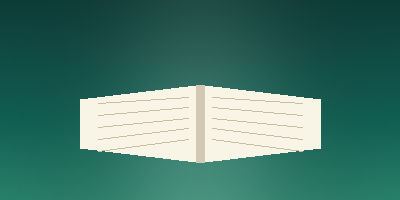
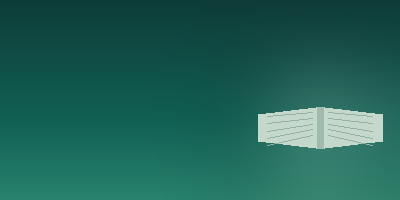
The widget redraws when its alarm fires, and notifications vibrate
The alarm module woke the widget's background task on time, but that task
only drew when Android itself had handed it a widget to draw on. Woken by
an alarm it rebuilt the card, re-armed the alarms and drew nothing — so the
home screen kept the card from the last time the app was opened. The alarm
tick now redraws every placed widget, and a safety tick every twenty
minutes for the next two hours catches anything a sleeping phone missed.

The notification channels now use high importance with a two-pulse
vibration and sound. Android fixes a channel's settings when it is first
created, so these are new channels under versioned ids; the server sends
on the same ids. Channels are also (re)configured at startup whenever
permission is already granted, and before the background weather alert
posts.

The reading scene's open book is smaller, muted and to the right, so the
words no longer sit on top of it.

diff --git a/src/features/widget/services/widgetTick.ts b/src/features/widget/services/widgetTick.ts
@@ -18,7 +18,10 @@
 import { findOccasion } from '@/features/duas/data/duaCatalogue';
 import { buildDuaNotification } from '@/features/duas/utils/duaNotification';
 import { presentNow } from '@/features/notifications/services/localNotificationService';
-import { getPermissionState } from '@/features/notifications/services/notificationService';
+import {
+  configureChannels,
+  getPermissionState,
+} from '@/features/notifications/services/notificationService';
 import { logger } from '@/lib/monitoring/logger';
 import { keyValueStore } from '@/lib/storage/keyValueStore';
 import { storageKeys } from '@/lib/storage/storageKeys';
@@ -42,6 +45,10 @@ async function raiseWeatherAlert(model: WidgetModel, now: Date): Promise<void> {
   const permission = await getPermissionState();
   if (permission.status !== 'granted') return;
 
+  // The channel must exist before anything is posted on it, and this may be
+  // the first code to run after an update that renamed the channels.
+  await configureChannels();
+
   const occasion = findOccasion(card.occasionId);
   if (!occasion) return;
 
@@ -55,10 +62,32 @@ async function raiseWeatherAlert(model: WidgetModel, now: Date): Promise<void> {
   }
 }
 
+/** A wake-up this often even when no card is due to change. */
+const SAFETY_TICK_MS = 20 * 60_000;
+const SAFETY_HORIZON_MS = 2 * 3_600_000;
+
+/**
+ * The card's own change instants, plus a tick every twenty minutes for the
+ * next two hours. The ticks are the net under the alarms: if a change was
+ * missed — the phone was asleep, the launcher was slow — the next tick
+ * redraws, and re-arms everything from a fresh reading of the clock.
+ */
+export function withSafetyTicks(changes: readonly Date[], now: Date): Date[] {
+  const instants = new Set(changes.map((d) => d.getTime()));
+  for (
+    let at = now.getTime() + SAFETY_TICK_MS;
+    at <= now.getTime() + SAFETY_HORIZON_MS;
+    at += SAFETY_TICK_MS
+  ) {
+    instants.add(at);
+  }
+  return [...instants].sort((a, b) => a - b).map((ms) => new Date(ms));
+}
+
 export async function runWidgetTick(model: WidgetModel, now: Date = new Date()): Promise<void> {
   try {
     if (WidgetAlarm.isAvailable) {
-      WidgetAlarm.schedule(model.changes);
+      WidgetAlarm.schedule(withSafetyTicks(model.changes, now));
     }
   } catch (error) {
     logger.warn('widget.alarmScheduleFailed', { error });

diff --git a/src/features/notifications/services/notificationService.ts b/src/features/notifications/services/notificationService.ts
@@ -118,26 +118,32 @@ export async function configureChannels(): Promise<void> {
   await withNotifications(async (notifications) => {
     const accent = getPalette('light').primary;
 
+    // HIGH importance is what makes a notification heads-up and felt: it
+    // buzzes and shows over whatever is open. The pattern is two firm pulses.
+    // A rain dua or a prayer that arrives silently is a notification nobody
+    // saw. The user can still quieten a channel in system settings.
+    const felt = {
+      importance: notifications.AndroidImportance.HIGH,
+      vibrationPattern: [0, 300, 200, 300],
+      enableVibrate: true,
+      lightColor: accent,
+      sound: 'default',
+    };
+
     await notifications.setNotificationChannelAsync(notificationChannels.dailyReminders, {
       name: t('notifications.channelDailyReminders'),
-      importance: notifications.AndroidImportance.DEFAULT,
-      vibrationPattern: [0, 200],
-      lightColor: accent,
+      ...felt,
       lockscreenVisibility: notifications.AndroidNotificationVisibility.PUBLIC,
     });
 
     await notifications.setNotificationChannelAsync(notificationChannels.streak, {
       name: t('notifications.channelStreak'),
-      importance: notifications.AndroidImportance.DEFAULT,
-      vibrationPattern: [0, 200],
-      lightColor: accent,
+      ...felt,
     });
 
     await notifications.setNotificationChannelAsync(notificationChannels.prayer, {
       name: t('notifications.channelPrayer'),
-      // Lower importance: prayer-adjacent nudges should never interrupt.
-      importance: notifications.AndroidImportance.LOW,
-      lightColor: accent,
+      ...felt,
     });
 
     logger.debug('notifications.channelsConfigured');

diff --git a/src/features/widget/services/widgetTaskHandler.tsx b/src/features/widget/services/widgetTaskHandler.tsx
@@ -62,6 +62,21 @@ async function load(): Promise<WidgetModel> {
   }
 }
 
+async function redrawAllWidgets(model: WidgetModel): Promise<void> {
+  try {
+    const { requestWidgetUpdate } = await import('react-native-android-widget');
+    await requestWidgetUpdate({
+      widgetName: WIDGET_NAME,
+      renderWidget: (info) => (
+        <WasilahWidget model={model} width={info.width} height={info.height} />
+      ),
+      widgetNotFound: () => undefined,
+    });
+  } catch (error) {
+    logger.warn('widget.redrawFailed', { error });
+  }
+}
+
 export async function widgetTaskHandler(props: WidgetTaskHandlerProps) {
   const { widgetInfo, widgetAction, renderWidget } = props;
 
@@ -76,6 +91,11 @@ export async function widgetTaskHandler(props: WidgetTaskHandlerProps) {
         renderWidget(
           <WasilahWidget model={model} width={widgetInfo.width} height={widgetInfo.height} />,
         );
+      } else {
+        // Woken by an alarm, not by Android: nothing was handed to us to draw
+        // on, so every placed widget is redrawn through the library — this is
+        // the redraw the alarm exists for.
+        await redrawAllWidgets(model);
       }
       await runWidgetTick(model);
       break;

diff --git a/src/features/notifications/types/notification.types.ts b/src/features/notifications/types/notification.types.ts
@@ -3,10 +3,14 @@ import type { NotificationCategory } from '@/lib/supabase/database.types';
 export type { NotificationCategory };
 
 /** Android notification channels. Users can mute these individually in system settings. */
+//
+// The ids carry a version. Android fixes a channel's importance and vibration
+// the first time it is created and ignores later changes, so making the
+// channels vibrate meant new channels; the old ones simply fall silent.
 export const notificationChannels = {
-  dailyReminders: 'daily-reminders',
-  streak: 'streak-reminders',
-  prayer: 'prayer-reminders',
+  dailyReminders: 'daily-reminders-v2',
+  streak: 'streak-reminders-v2',
+  prayer: 'prayer-reminders-v2',
 } as const;
 
 export type NotificationChannelId =

diff --git a/src/features/notifications/hooks/useNotificationPermissions.ts b/src/features/notifications/hooks/useNotificationPermissions.ts
@@ -53,6 +53,9 @@ export function useNotificationPermissions(): UseNotificationPermissionsResult {
     const next = await getPermissionState();
     setState(next);
     setIsLoading(false);
+    // Permission already granted on an earlier run: make sure the channels
+    // exist with their current settings, since an update can rename them.
+    if (next.status === 'granted') await configureChannels();
   }, []);
 
   useEffect(() => {

diff --git a/supabase/functions/notification-engine/index.ts b/supabase/functions/notification-engine/index.ts
@@ -245,7 +245,7 @@ Deno.serve(async (request: Request): Promise<Response> => {
         route: '/(tabs)/home?focus=todays-ayah',
         scheduledFor: new Date().toISOString(),
       },
-      channelId: isStreakRescue ? 'streak-reminders' : 'daily-reminders',
+      channelId: isStreakRescue ? 'streak-reminders-v2' : 'daily-reminders-v2',
       sound: 'default',
     });
 

diff --git a/app.config.ts b/app.config.ts
@@ -224,7 +224,7 @@ export default ({ config }: ConfigContext): ExpoConfig => ({
         color: BRAND,
         // Reminders are scheduled locally, so the app must be allowed to post
         // them without a network round-trip.
-        defaultChannel: 'daily-reminders',
+        defaultChannel: 'daily-reminders-v2',
       },
     ],
     [

diff --git a/scripts/generate-widget-art.py b/scripts/generate-widget-art.py
@@ -345,21 +345,23 @@ def scene_quran(s: float) -> Image.Image:
     """An open book on a warm, quiet ground: the reading nudge."""
     size = (int(BASE_W * s), int(BASE_H * s))
     img = vertical_gradient(size, [(0, (14, 60, 56)), (0.6, (16, 96, 84)), (1, (40, 130, 108))])
-    glow(img, (size[0] * 0.5, size[1] * 0.55), 110 * s, (200, 240, 220), 0.35)
+    glow(img, (size[0] * 0.8, size[1] * 0.6), 80 * s, (200, 240, 220), 0.3)
     draw = ImageDraw.Draw(img)
-    cx, cy = size[0] * 0.5, size[1] * 0.62
-    w, h = 120 * s, 70 * s
-    page = (248, 244, 230)
+    # Small and to the right, in muted tones, so the words on the left sit on
+    # plain ground rather than on top of the book.
+    cx, cy = size[0] * 0.8, size[1] * 0.64
+    w, h = 62 * s, 38 * s
+    page = (196, 216, 204)
     # Two pages, meeting at the spine, slightly angled.
     draw.polygon([(cx - w, cy - h * 0.35), (cx - 4 * s, cy - h * 0.55), (cx - 4 * s, cy + h * 0.55), (cx - w, cy + h * 0.35)], fill=page)
     draw.polygon([(cx + w, cy - h * 0.35), (cx + 4 * s, cy - h * 0.55), (cx + 4 * s, cy + h * 0.55), (cx + w, cy + h * 0.35)], fill=page)
     # Faint lines of text.
     for k in range(5):
         yy = cy - h * 0.3 + k * h * 0.15
-        draw.line((cx - w * 0.85, yy + k * 1.5 * s, cx - 12 * s, yy - 6 * s), fill=(200, 190, 160), width=max(1, int(1.2 * s)))
-        draw.line((cx + 12 * s, yy - 6 * s, cx + w * 0.85, yy + k * 1.5 * s), fill=(200, 190, 160), width=max(1, int(1.2 * s)))
+        draw.line((cx - w * 0.85, yy + k * 1.5 * s, cx - 8 * s, yy - 4 * s), fill=(150, 176, 164), width=max(1, int(1.0 * s)))
+        draw.line((cx + 8 * s, yy - 4 * s, cx + w * 0.85, yy + k * 1.5 * s), fill=(150, 176, 164), width=max(1, int(1.0 * s)))
     # Spine shadow.
-    draw.rectangle((cx - 4 * s, cy - h * 0.55, cx + 4 * s, cy + h * 0.55), fill=(210, 200, 180))
+    draw.rectangle((cx - 3 * s, cy - h * 0.55, cx + 3 * s, cy + h * 0.55), fill=(160, 186, 174))
     return img
 
 
